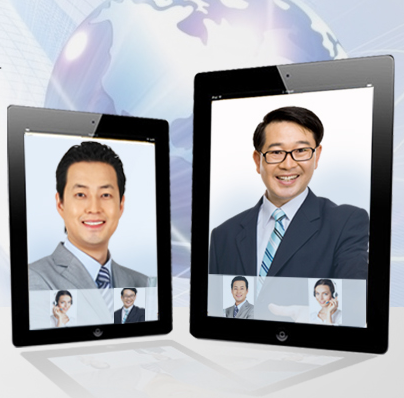
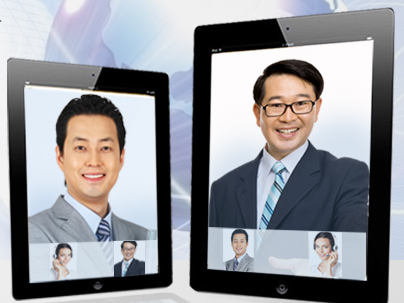
bg_long

diff --git a/themes/classic/css/main.css b/themes/classic/css/main.css
@@ -4,7 +4,7 @@ body
 	padding: 0;
 	color: #555;
 	font: normal 10pt Arial,Helvetica,sans-serif;
-	background-image: url(../img/header.png);
+	background-image: url(../img/bg_short.png);
 	background-repeat: repeat-x;
 }
 
@@ -15,7 +15,7 @@ body
 	top: 0px;
 	left: 0px;
 	width: 100%;
-	background-image: url(../img/header_footer_line.png);
+	background-image: url(../img/bg_line.png);
 	background-repeat: repeat-x;
 }
 

diff --git a/protected/views/layouts/main.php b/protected/views/layouts/main.php
@@ -17,7 +17,7 @@
 	<link rel="stylesheet" type="text/css" href="<?=Yii::app()->theme->baseUrl; ?>/css/form.css" />
 	<link rel="stylesheet" type="text/css" href="<?=Yii::app()->theme->baseUrl; ?>/css/layouts.css" />
 	<link rel="stylesheet" type="text/css" href="<?=Yii::app()->theme->baseUrl; ?>/css/view.css" />
-	<link rel="stylesheet" type="text/css" href="<?=Yii::app()->theme->baseUrl; ?>/css/tab.css" />
+	<link rel="stylesheet" type="text/css" href="<?=Yii::app()->theme->baseUrl; ?>/css/menu.css" />
     <link id="artDialog-skin" rel="stylesheet" type="text/css"
         href="<?=Yii::app()->theme->baseUrl; ?>/js/artDialog/skins/green.css" />
 

diff --git a/protected/views/site/index.php b/protected/views/site/index.php
@@ -1,6 +1,6 @@
 <?php
 Yii::app()->clientScript->registerScript('article', "
-	$('body').css('background-image','url(".Yii::app()->theme->baseUrl."/img/bg_long.jpg)');
+	$('body').css('background-image','url(".Yii::app()->theme->baseUrl."/img/bg_long.png)');
 	$('#entrance').click(function(){
 		if($.cookie('SELEPROD') != null)
 			window.location.href = '".Yii::app()->request->baseUrl."/index.php/article/'+$.cookie('SELEPROD');
